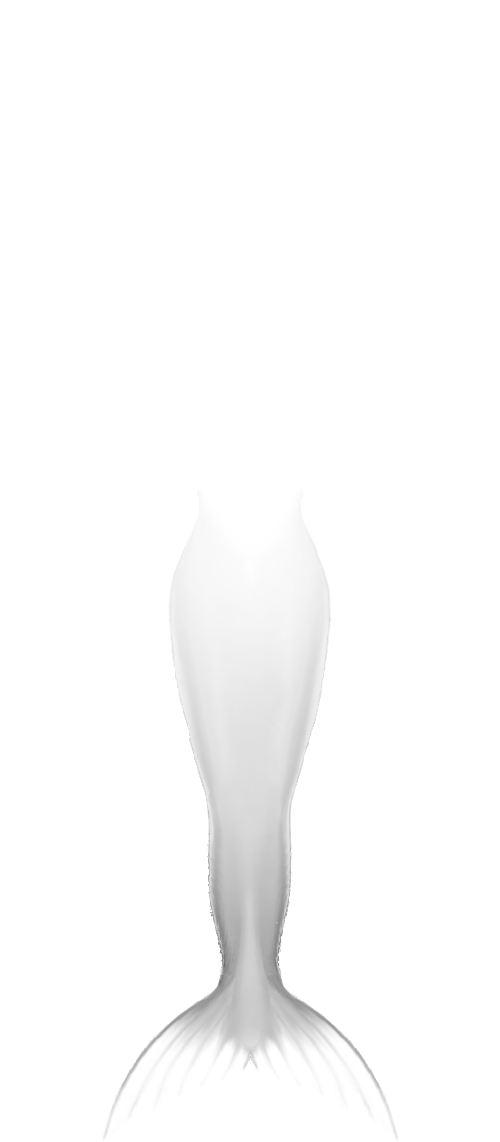
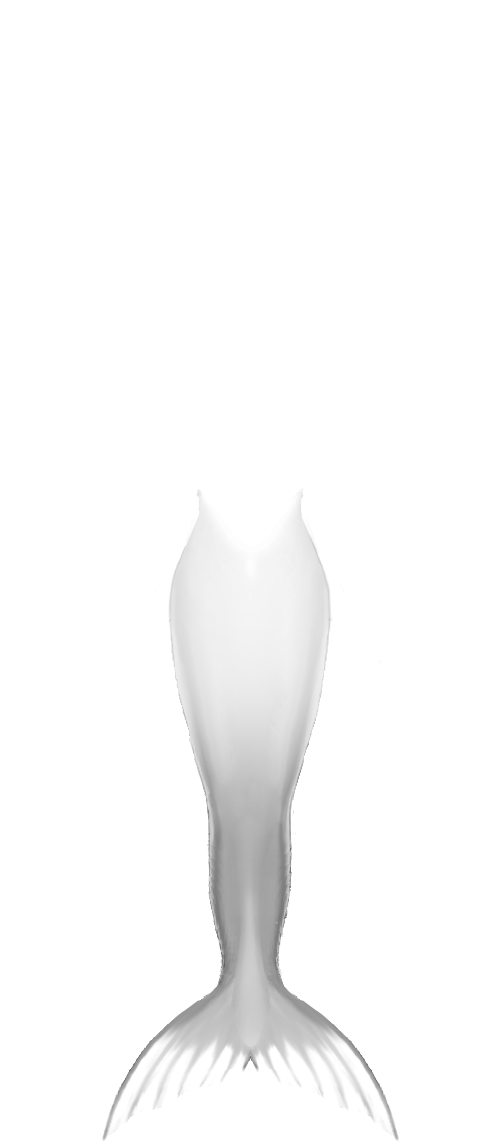
修改

diff --git a/modbeta.js b/modbeta.js
@@ -462,7 +462,7 @@
             },
             {
                 Name: "鱼鱼尾_Luzi", Random: false, Gender: "F",
-                Top: -110, Left: 0,
+                Top: -110, Left: 0, Extended: true,
                 OverrideHeight: { Height: 30, Priority: 19, },
                 Hide: [],
                 PoseMapping: { Spread: "", LegsClosed: "", KneelingSpread: "Kneel", Kneel: "Kneel", },
@@ -473,10 +473,8 @@
                     { Name: "鱼尾下骨架2", Priority: 22, CopyLayerColor: "衣鱼尾下骨架", PoseMapping: { Spread: "Hide", LegsClosed: "Hide", KneelingSpread: "Kneel", Kneel: "Kneel", }, },
                     { Name: "鱼尾下透明", Priority: 22 },
                     { Name: "鱼尾下骨架", Priority: 22 },
-                    { Name: "鱼尾鱼鳍上透明", Priority: 22 },
-                    { Name: "鱼尾鱼鳍上骨架", Priority: 22 },
-                    { Name: "鱼尾鱼鳍下透明", Priority: 22 },
-                    { Name: "鱼尾鱼鳍下骨架", Priority: 22 },
+                    { Name: "鱼尾鱼鳍上透明", Priority: 22, AllowTypes: { typed: 1 }, },
+                    { Name: "鱼尾鱼鳍上骨架", Priority: 22, AllowTypes: { typed: 1 }, },
                     { Name: "高光上半", Priority: 22 },
                     { Name: "高光下半", Priority: 22 },
                 ]
@@ -639,11 +637,8 @@
         ],
         ItemTorso2: [
             {
-                Name: "拘束套装_Luzi",
-                Top: 0,
-                Left: 0,
-                Random: false,
-                Gender: "F",
+                Name: "拘束套装_Luzi", Random: false, Gender: "F",
+                Top: 0, Left: 0,
                 Difficulty: 25,
                 Effect: [E.Block, E.BlockWardrobe, E.Slow],
                 Prerequisite: ["HasBreasts"],
@@ -1036,7 +1031,17 @@
             },
         ],
     };
-
+    AssetFemale3DCGExtended.SuitLower.鱼鱼尾_Luzi = {
+        Archetype: ExtendedArchetype.TYPED,
+        Options: [
+            {
+                Name: "无",
+            },
+            {
+                Name: "有鱼鳍",
+            },
+        ],
+    };
 
     const dialogMap = new Map([
         ['ItemDevices玻璃罐子_LuziSelectBase', '选择罐子配置'], ['ItemDevices玻璃罐子_LuziSelect窗户', '设置窗户'], ['ItemDevices玻璃罐子_LuziModule窗户', '窗户'], ['ItemDevices玻璃罐子_LuziOptionc0', '无'], ['ItemDevices玻璃罐子_LuziOptionc1', '密封'], ['ItemDevices玻璃罐子_LuziSetc0', 'SourceCharacter打开了DestinationCharacter的罐子'], ['ItemDevices玻璃罐子_LuziSetc1', 'SourceCharacter封上了DestinationCharacter的罐子'], ['ItemDevices玻璃罐子_LuziSelect腿部拘束', '设置腿部拘束'], ['ItemDevices玻璃罐子_LuziModule腿部拘束', '腿部拘束'], ['ItemDevices玻璃罐子_LuziOptiont0', '无'], ['ItemDevices玻璃罐子_LuziOptiont1', '腿拘束'], ['ItemDevices玻璃罐子_LuziSett0', "SourceCharacter移除了DestinationCharacter双腿的拘束"], ['ItemDevices玻璃罐子_LuziSett1', "SourceCharacter将DestinationCharacter的双腿束缚在一起"], ['ItemDevices玻璃罐子_LuziSelect手臂拘束', '设置手臂拘束'], ['ItemDevices玻璃罐子_LuziModule手臂拘束', '手臂拘束'], ['ItemDevices玻璃罐子_LuziOptions0', '无'], ['ItemDevices玻璃罐子_LuziOptions1', '手臂拘束'], ['ItemDevices玻璃罐子_LuziSets0', "SourceCharacter移除了DestinationCharacter手腕和手肘的拘束"], ['ItemDevices玻璃罐子_LuziSets1', "SourceCharacter将DestinationCharacter的手腕和手肘束缚到她的身后"], ['ItemDevices玻璃罐子_LuziSelect管道', '设置管道'], ['ItemDevices玻璃罐子_LuziModule管道', '管道'], ['ItemDevices玻璃罐子_LuziOptiongz0', '无'], ['ItemDevices玻璃罐子_LuziOptiongz1', '连接身体'], ['ItemDevices玻璃罐子_LuziSetgz0', 'SourceCharacter移除了连接DestinationCharacter的身体的管子'], ['ItemDevices玻璃罐子_LuziSetgz1', 'SourceCharacter将管子连接进了DestinationCharacter的身体'], ['ItemDevices玻璃罐子_LuziSelect液体', '设置液体'], ['ItemDevices玻璃罐子_LuziModule液体', '液体'], ['ItemDevices玻璃罐子_LuziOptionyt0', '无'], ['ItemDevices玻璃罐子_LuziOptionyt1', '注入液体'], ['ItemDevices玻璃罐子_LuziSetyt0', 'SourceCharacter排空了DestinationCharacter身体和罐子里的液体'], ['ItemDevices玻璃罐子_LuziSetyt1', 'DestinationCharacter的身体和罐子充满了液体'], ['ItemDevices玻璃罐子_LuziSelect快感模块', '设置快感模块'], ['ItemDevices玻璃罐子_LuziModule快感模块', '快感模块'], ['ItemDevices玻璃罐子_LuziOptionk0', '关闭'], ['ItemDevices玻璃罐子_LuziOptionk1', '低'], ['ItemDevices玻璃罐子_LuziOptionk2', '一般'], ['ItemDevices玻璃罐子_LuziOptionk3', '高'], ['ItemDevices玻璃罐子_LuziOptionk4', '最多'], ['ItemDevices玻璃罐子_LuziSetk0', "插在DestinationCharacter体内的振动装置停止振动"], ['ItemDevices玻璃罐子_LuziSetk1', "插在DestinationCharacter体内的振动装置轻微逗弄起来"], ['ItemDevices玻璃罐子_LuziSetk2', "插在DestinationCharacter体内的振动装置带温和嗡鸣着"], ['ItemDevices玻璃罐子_LuziSetk3', "插在DestinationCharacter体内的振动装置猛烈地颤动"], ['ItemDevices玻璃罐子_LuziSetk4', "插在DestinationCharacter体内的振动装置以最大速度振动着"], ['ItemDevices玻璃罐子_LuziSelect电击模块', '设置电击模块'], ['ItemDevices玻璃罐子_LuziModule电击模块', '电击模块'], ['ItemDevices玻璃罐子_LuziOptiond0', '关闭'], ['ItemDevices玻璃罐子_LuziOptiond1', '低'], ['ItemDevices玻璃罐子_LuziOptiond2', '一般'], ['ItemDevices玻璃罐子_LuziOptiond3', '高'], ['ItemDevices玻璃罐子_LuziSetd0', 'SourceCharacter关闭了插在DestinationCharacter体内的振动装置关闭了'], ['ItemDevices玻璃罐子_LuziSetd1', 'SourceCharacter将插在DestinationCharacter体内的电击装置设置为等级1'], ['ItemDevices玻璃罐子_LuziSetd2', 'SourceCharacter将插在DestinationCharacter体内的电击装置设置为等级2'], ['ItemDevices玻璃罐子_LuziSetd3', 'SourceCharacter将插在DestinationCharacter体内的电击装置设置为等级3'], ['ItemDevices玻璃罐子_LuziSelect高潮锁', '设置高潮锁'], ['ItemDevices玻璃罐子_LuziModule高潮锁', '高潮锁'], ['ItemDevices玻璃罐子_LuziOptiong0', '允许'], ['ItemDevices玻璃罐子_LuziOptiong1', '寸止'], ['ItemDevices玻璃罐子_LuziOptiong2', '拒绝'], ['ItemDevices玻璃罐子_LuziSetg0', 'SourceCharacter关闭了插在DestinationCharacter体内的振动装置设置为允许高潮'], ['ItemDevices玻璃罐子_LuziSetg1', 'SourceCharacter将插在DestinationCharacter体内的振动装置设置为寸止模式'], ['ItemDevices玻璃罐子_LuziSetg2', 'SourceCharacter将插在DestinationCharacter体内的振动装置设置为拒绝模式'],
@@ -1050,7 +1055,7 @@
         ['ItemTorso2拘束套装_LuziSet透视紧身衣', ''],
         ['ItemTorso2拘束套装_LuziSet紧身衣', ''],
 
-
+        ['SuitLower鱼鱼尾_LuziSelect', '选择配置'],
     ]);
 
 
